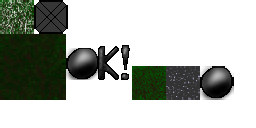
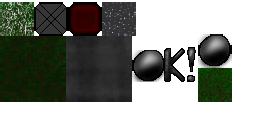
tuning graphics highlighting levels

diff --git a/core/src/cz/kotu/ld31/MyGdxGame.java b/core/src/cz/kotu/ld31/MyGdxGame.java
@@ -33,6 +33,7 @@ public class MyGdxGame extends ApplicationAdapter {
     Grid grid;
     Grid.Stone handStone;
     Actor winAnimation;
+    TextButton[] levelButtons;
     boolean victoryShown;
     int currentLevel;
     Group boardGroup;
@@ -149,16 +150,15 @@ public class MyGdxGame extends ApplicationAdapter {
 
         TextButton.TextButtonStyle buttonStyle = new TextButton.TextButtonStyle();
         buttonStyle.font = bitmapFont;
-        buttonStyle.up = new TextureRegionDrawable(res.stone1);
+        buttonStyle.up = new TextureRegionDrawable(res.stone);
 
         {
             final int perRow = 2;
             Table menuTable = new Table();
             menuTable.setSkin(skin);
-            menuTable.add("MENU").colspan(perRow);
-            menuTable.row();
 
             int rb = 0; // num buttons on row
+            levelButtons = new TextButton[levels.LIST.length];
             for (int lvl = 0; lvl < levels.LIST.length; lvl++) {
                 addLevelButton(menuTable, buttonStyle, lvl);
                 rb++;
@@ -190,6 +190,7 @@ public class MyGdxGame extends ApplicationAdapter {
             }
         });
         menuTable.add(button);
+        levelButtons[level] = button;
     }
 
     @Override
@@ -221,6 +222,8 @@ public class MyGdxGame extends ApplicationAdapter {
 
         highlightStones();
 
+        highlightLevels();
+
         // perform drawing
 
         Gdx.gl.glClearColor(0, 0, 0, 1);
@@ -228,8 +231,7 @@ public class MyGdxGame extends ApplicationAdapter {
 
         // nice background image
         batch.begin();
-        res.backgroundDrawable.draw(batch, 0, 0, viewport.getWorldWidth(), viewport.getWorldHeight());
-//        res.backgroundDrawable.draw(batch, 0, 0, 0, 0, viewport.getWorldWidth(), viewport.getWorldHeight(), 1, 1, 0);
+        res.backgroundTiled.draw(batch, 0, 0, viewport.getWorldWidth(), viewport.getWorldHeight());
         batch.end();
 
         batch.setProjectionMatrix(viewport.getCamera().combined);
@@ -290,6 +292,20 @@ public class MyGdxGame extends ApplicationAdapter {
             }
         }
         return false;
+    }
+
+    private void highlightLevels() {
+        for (int i = 0; i < levelButtons.length; i++) {
+            Color color;
+            if (currentLevel == i) {
+                color = Color.WHITE;
+            } else if (i < currentLevel) {
+                color = new Color(0, 0.5f, 0, 1);
+            } else {
+                color = Color.GRAY;
+            }
+            levelButtons[i].setColor(color);
+        }
     }
 
     private void highlightStones() {

diff --git a/core/src/cz/kotu/ld31/Grid.java b/core/src/cz/kotu/ld31/Grid.java
@@ -56,6 +56,9 @@ public class Grid extends Actor {
         Color color = getColor();
         batch.setColor(color.r, color.g, color.b, color.a * parentAlpha);
 
+//        res.groundTiled.draw(batch, 0, 0, width, height);
+        batch.draw(res.ground, 0, 0, width, height);
+
         int border = 0;
         for (int y = 0 - border; y < height + border; y++) {
             for (int x = 0 - border; x < width + border; x++) {
@@ -64,12 +67,14 @@ public class Grid extends Actor {
                 switch (field.type) {
                     case TARGET:
 
-                        batch.draw(res.ground1, x, y, 1, 1);
+//                        batch.draw(res.ground, x, y, 1, 1);
                         Color tmpColor = batch.getColor();
-                        batch.setColor(0, 1.f, 0, 0.4f);
+                        batch.setColor(0, 1.f, 0, 0.35f);
                         batch.draw(res.target, x, y, 1, 1);
                         batch.setColor(tmpColor);
 
+                        break;
+                    case VOID:
                         break;
                     default:
                         TextureRegion texture = res.getTextureForType(field.type);
@@ -77,8 +82,6 @@ public class Grid extends Actor {
                             batch.draw(texture, x, y, 1, 1);
                         }
                 }
-
-
             }
         }
     }

diff --git a/core/src/cz/kotu/ld31/Res.java b/core/src/cz/kotu/ld31/Res.java
@@ -17,11 +17,12 @@ public class Res {
 
     TextureAtlas atlas = new TextureAtlas("art.pack");
 
-    TextureRegion stone1 = atlas.findRegion("stone");
-    TextureRegion ground1 = atlas.findRegion("ground");
+    TextureRegion stone = atlas.findRegion("stone");
+    TextureRegion ground = atlas.findRegion("ground2");
+    TiledDrawable groundTiled = new TiledDrawable(ground);
     TextureRegion background = atlas.findRegion("background-large");
-    TiledDrawable backgroundDrawable = new TiledDrawable(background);
-    TextureRegion box = atlas.findRegion("box");
+    TiledDrawable backgroundTiled = new TiledDrawable(background);
+    TextureRegion box = atlas.findRegion("box2");
     TextureRegion target = atlas.findRegion("target");
 
     TextureRegion questionMark = atlas.findRegion("questionmark");
@@ -35,9 +36,9 @@ public class Res {
     TextureRegion getTextureForType(Type type) {
         switch (type) {
             case VOID:
-                return ground1;
+                return ground;
             case STONE:
-                return stone1;
+                return stone;
             case BORDER:
             case SOLID:
                 return box;
